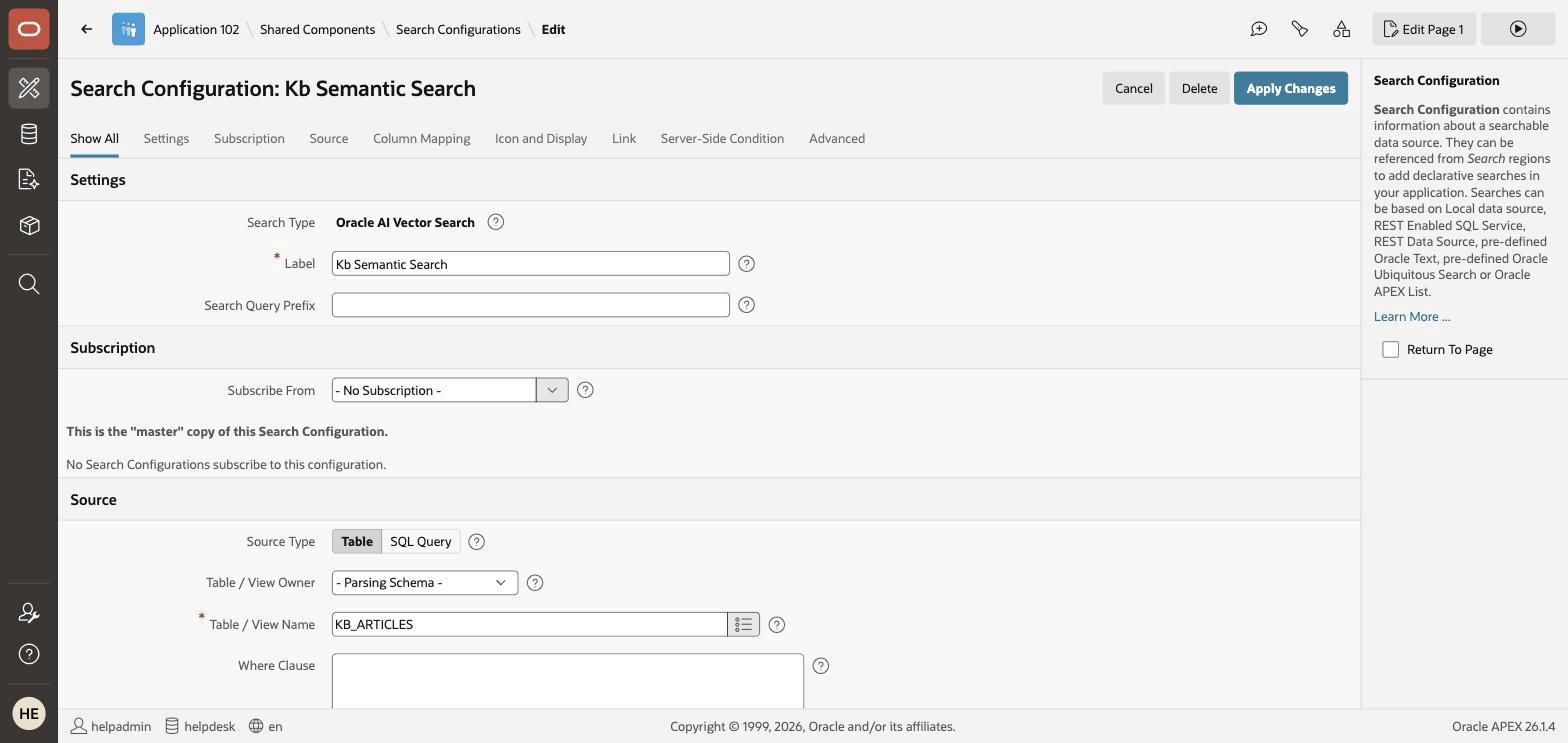
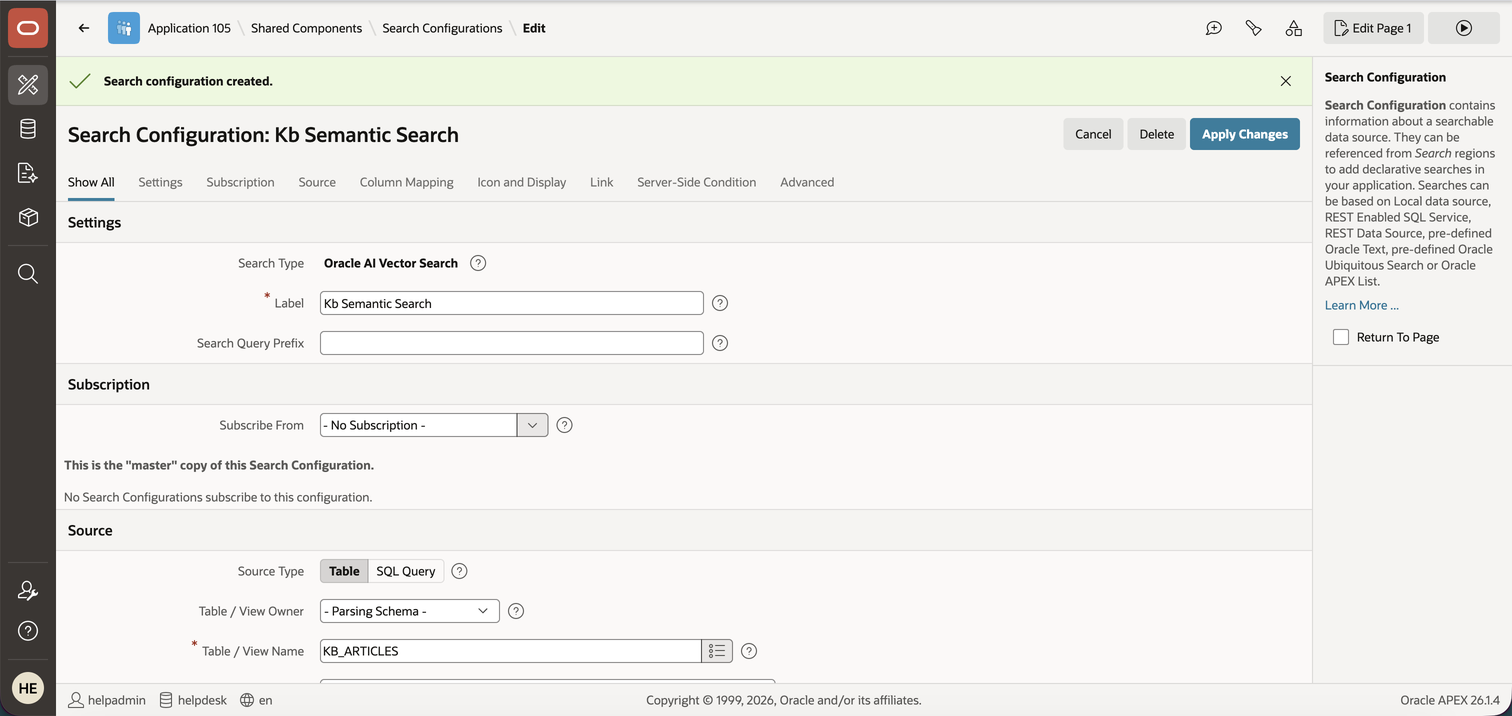
Lab 7: run end to end on app 105 — fix 5 defects, reshoot 3 screenshots
- Task 4: three-statement copy block fails in SQL Commands (ORA-03405); say to
  run them one at a time or use SQL Scripts
- Task 5: 'leave ONNX Model Owner as - Current Parsing Schema -' blocks the
  lab — the model LOV returns nothing; select the workspace schema instead
- Task 5: Static ID auto-fills as kb-minilm (hyphen), not concatenated
- Task 3: LOAD_ONNX_MODEL takes ~20s, not ~10s (measured 19.74s)
- Task 6: re-measured two stale cosine distances (.420 and .487)
- load-onnx.png captured with the PAR URL redacted; vector-provider.png and
  search-config.png re-shot on app 105 (were stale app 102 captures)

Claude-Session: https://claude.ai/code/session_019nki91jxTgwFUCNAHm9Ffq

diff --git a/ai-helpdesk-agent/7-vector-search/7-vector-search.md b/ai-helpdesk-agent/7-vector-search/7-vector-search.md
@@ -101,7 +101,7 @@ and is a genuinely useful thing to know how to do.
     end;</copy>
     ```
 
-    Loading takes about ten seconds.
+    Loading takes about twenty seconds.
 
     > **You will see new `DM$P…MINILM_L12` tables appear in Object Browser.** Loading an ONNX model
     > creates four of them in your schema to hold the model itself. They are Oracle-managed metadata,
@@ -123,6 +123,11 @@ and is a genuinely useful thing to know how to do.
     select count(*) as embedded from kb_articles where embedding is not null;</copy>
     ```
 
+    > **Run the three statements one at a time.** SQL Commands executes a single statement per **Run**;
+    > pasting all three at once fails with `ORA-03405: End of query reached; no additional text should
+    > follow.` Run the `update`, then `commit`, then the `select`. (Or paste all three into a script under
+    > **SQL Workshop > SQL Scripts** and run it there — scripts do handle multiple statements.)
+
     Expected result: **30**. That's the entire embedding pipeline — one SQL function, running next to your data. Nothing left the database.
 
 ## Task 5: Create the Vector Provider and Search Configuration
@@ -130,8 +135,17 @@ and is a genuinely useful thing to know how to do.
 1. Navigate to **App Builder > Workspace Utilities > Vector Providers**, click **Create**, and enter/select:
 
     * Provider Type: **Database ONNX Model**
-    * Name: **KB MiniLM** — Static ID: **kb\_minilm** (the Static ID auto-fills from the Name, so clear the field before typing or you will end up with both values concatenated)
-    * ONNX Model Owner: leave as **- Current Parsing Schema -** — ONNX Model Name: **MINILM\_L12**
+    * Name: **KB MiniLM** — Static ID: **kb\_minilm**
+
+        > **⚠ The Static ID auto-fills from the Name, and it uses a hyphen** — typing `KB MiniLM` gives
+        > you `kb-minilm`. Overwrite it with the underscore form before you click Create, exactly as in
+        > Lab 1.
+    * ONNX Model Owner: **your workspace schema** — for example `WKSP_HELPDESK` — and ONNX Model Name: **MINILM\_L12**
+
+        > **⚠ Do not leave the owner on "- Current Parsing Schema -".** With that setting, ONNX Model
+        > Name stays a popup search box that returns no rows however you search, and you cannot pick the
+        > model. Selecting the schema explicitly turns ONNX Model Name into a select list with
+        > `MINILM_L12` in it.
 
     ![Vector Provider configuration](images/vector-provider.png " ")
 
@@ -147,7 +161,7 @@ and is a genuinely useful thing to know how to do.
 
 ## Task 6: Build the Search Page and Beat Keywords
 
-1. **Create Page**, switch to the **Component** tab (the dialog opens on *Generative AI*), choose **Search Page**, name it **Ask the Knowledge Base**, and include the **KB Semantic Search** configuration.
+1. **Create Page**, switch to the **Component** tab (the dialog opens on whichever tab you used last — often *Generative AI*), choose **Search Page**, name it **Ask the Knowledge Base**, and include the **KB Semantic Search** configuration.
 
 2. Run the page and search:
 
@@ -170,8 +184,8 @@ and is a genuinely useful thing to know how to do.
 
     > **Measured on this data set** (cosine distance, lower is closer): `email box is jammed` →
     > *Mailbox is full* at **0.467**; `screen keeps blinking` → *Monitor flickers or goes black
-    > intermittently* at **0.415**; `laptop won't connect from hotel wifi` → *Connecting on public or
-    > hotel Wi-Fi (captive portals)* at **0.511**. Your numbers should be close to these.
+    > intermittently* at **0.420**; `laptop won't connect from hotel wifi` → *Connecting on public or
+    > hotel Wi-Fi (captive portals)* at **0.487**. Your numbers should be close to these.
 
     > **Why not just search for "VPN error 812"?** You can, and it works — but that is keyword overlap
     > doing the job, not meaning. The queries above are the honest demonstration, because the winning

diff --git a/tasks/todo.md b/tasks/todo.md
@@ -829,3 +829,48 @@ these screens held:
 **Technique worth keeping:** in Page Designer the property editor uses `peMain_N` ids rather than APEX
 items, and coordinate clicks on tree links are unreliable. Reading an element's `getBoundingClientRect()`
 and clicking those coordinates — or calling `.click()` directly — works consistently.
+
+### Lab 7 executed end to end on app 105 (2026-08-31)
+
+The model is loaded, the 30 articles are embedded, and the Vector Provider, Search Configuration and
+search page all exist on **app 105**. Five defects found and fixed in the lab text.
+
+**Getting the model into Object Storage without the console's file picker.** The OCI Console's *Upload
+objects* panel has no reachable `input[type=file]` — none in the DOM, none in any shadow root — so the
+extension cannot drive it, the same wall the APEX *Upload Script* dialog puts up. The way around it needs
+no file picker at all:
+
+1. Bucket **Management** tab > *Create pre-authenticated request* > target **Bucket**, access **Permit
+   object writes**.
+2. `curl -T all_MiniLM_L12_v2.onnx "<write-par-url>all_MiniLM_L12_v2.onnx"` → HTTP 200, 133,322,334 bytes.
+3. Object's **⋯** > *Create Pre-Authenticated Request* > target **Object**, **Permit object reads** — the
+   least-privilege PAR the lab asks for. `HEAD` returned 200 with `content-length: 133322334`.
+4. Delete the write PAR. Verified dead: a `PUT` through it now returns **401**.
+
+The PAR URL never entered the transcript. The extension **blocks** JavaScript that returns credential-like
+strings (`[BLOCKED: Cookie/query string data]`), so it went console **Copy** button → `pbpaste` →
+scratchpad file → `curl`, and into SQL Commands as a clipboard paste.
+
+**Defects found and fixed:**
+
+1. **Task 4's copy block cannot be pasted into SQL Commands.** Three statements at once fail with
+   `ORA-03405: End of query reached; no additional text should follow.` Lab now says to run them one at a
+   time, or to run the script under SQL Scripts.
+2. **Task 5's "leave ONNX Model Owner as - Current Parsing Schema -" is wrong and blocks the lab.** With
+   that setting, ONNX Model Name is a popup search box that returns nothing for any search. Selecting the
+   schema explicitly (`WKSP_HELPDESK`) turns it into a select list containing `MINILM_L12`.
+3. **The Static ID auto-fills as `kb-minilm`** — a hyphen, exactly the Lab 1 trap — not "both values
+   concatenated" as the lab claimed. Warning rewritten to match Lab 1.
+4. **Load time is ~20 s, not ~10 s** (measured 19.74 s).
+5. **Two of the three published distances were stale.** Re-measured against the freshly embedded data:
+   `email box is jammed` → *Mailbox is full* **.4674** (unchanged); `screen keeps blinking` → *Monitor
+   flickers* **.4201** (was .415); `laptop won't connect from hotel wifi` → *Connecting on public or hotel
+   Wi-Fi* **.4873** (was .511). All three still return the intended article as the nearest match.
+
+**Also observed:** APEX title-cases the search configuration name to `Kb Semantic Search`, and the Create
+Page dialog opened on **Component**, not *Generative AI* — it remembers the last tab used, so the lab's
+parenthetical is now hedged.
+
+**Screenshots replaced:** `load-onnx.png` (new — PAR URL redacted with a drawn bar), `vector-provider.png`
+and `search-config.png` were both stale captures from the retired **app 102** and are re-shot on app 105.
+`semantic-results.png` is still the app 102 capture — the runtime app needs a sign-in to re-shoot.
